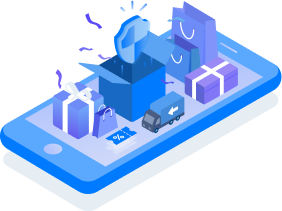
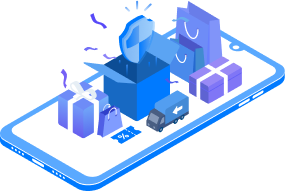
pravki: замена пнг мобилки, название +витал, тексты статусов подключения, сапорт почты, иконки

diff --git a/lib/screens/connect/views/connection_status_message.dart b/lib/screens/connect/views/connection_status_message.dart
@@ -48,7 +48,7 @@ class ConnectionStatusMessagePro extends StatelessWidget {
     return BlocBuilder(
         bloc: bloc,
         builder: (context, ConnectionState state) {
-          var message, icon=false;
+          var message, icon = false;
           if (state is Disconnected) {
             message = 'TAP TO CONNECT';
           }
@@ -74,7 +74,9 @@ class ConnectionStatusMessagePro extends StatelessWidget {
                     shape: BoxShape.circle,
                   ),
                 ),
-              SizedBox(width: 8,),
+              SizedBox(
+                width: 8,
+              ),
               Text(
                 message,
               ),
@@ -95,12 +97,20 @@ class ConnectionStatusMessageFree extends StatelessWidget {
     return BlocBuilder(
         bloc: bloc,
         builder: (context, ConnectionState state) {
-          String message = '';
+          var message = '', icon = false;
 
-          if (state is Connecting|| state is Reconnecting) {
+          if (state is Disconnected) {
+            message = 'TAP TO CONNECT';
+          }
+
+          if (state is Connecting || state is Reconnecting) {
             message = 'CONNECTING';
           }
 
+          if (state is Connected) {
+            message = 'CONNECTED';
+            icon = true;
+          }
           return Row(
             mainAxisAlignment: MainAxisAlignment.center,
             children: [

diff --git a/lib/screens/settings/settings.dart b/lib/screens/settings/settings.dart
@@ -101,7 +101,7 @@ class _SettingsScreenState extends State<SettingsScreen> {
   final _urlTerms = 'https://google.com';
   final _urlAbout = 'https://yandex.ru';
   final _mail =
-      'mailto:mikhalevk@gmail.com?subject=Topic&body=<Type your message here>';
+      'mailto:vpnocean2021@gmail.com?subject=Topic&body=<Type your message here>';
 
   void _launchURL(url) async => await canLaunch(url) ? await launch(url) : null;
 
@@ -153,7 +153,7 @@ class _SettingsScreenState extends State<SettingsScreen> {
                         child: Row(
                           mainAxisAlignment: MainAxisAlignment.center,
                           children: [
-                            Text('VPN Security',
+                            Text('VPN Vital Security',
                                 style: GoogleFonts.lato(
                                     color: Color(0xFF101010),
                                     fontSize: 17,

diff --git a/lib/screens/splash/splash.dart b/lib/screens/splash/splash.dart
@@ -31,7 +31,7 @@ class Splash extends StatelessWidget {
                   ),
                   Padding(
                     padding: EdgeInsets.only(right: 8),
-                    child: Text(' \VPN Security',
+                    child: Text(' \VPN Vital Security',
                         style: GoogleFonts.lato(
                             fontSize: 19, fontWeight: FontWeight.bold)),
                   ),

diff --git a/lib/screens/connect/views/title.dart b/lib/screens/connect/views/title.dart
@@ -18,7 +18,7 @@ class ConnectScreenTitle extends StatelessWidget {
       mainAxisAlignment: MainAxisAlignment.center,
       children: [
         Text(
-          'VPN Security',
+          'VPN Vital Security',
           style: titleStyle,
         ),
         BlocBuilder(
